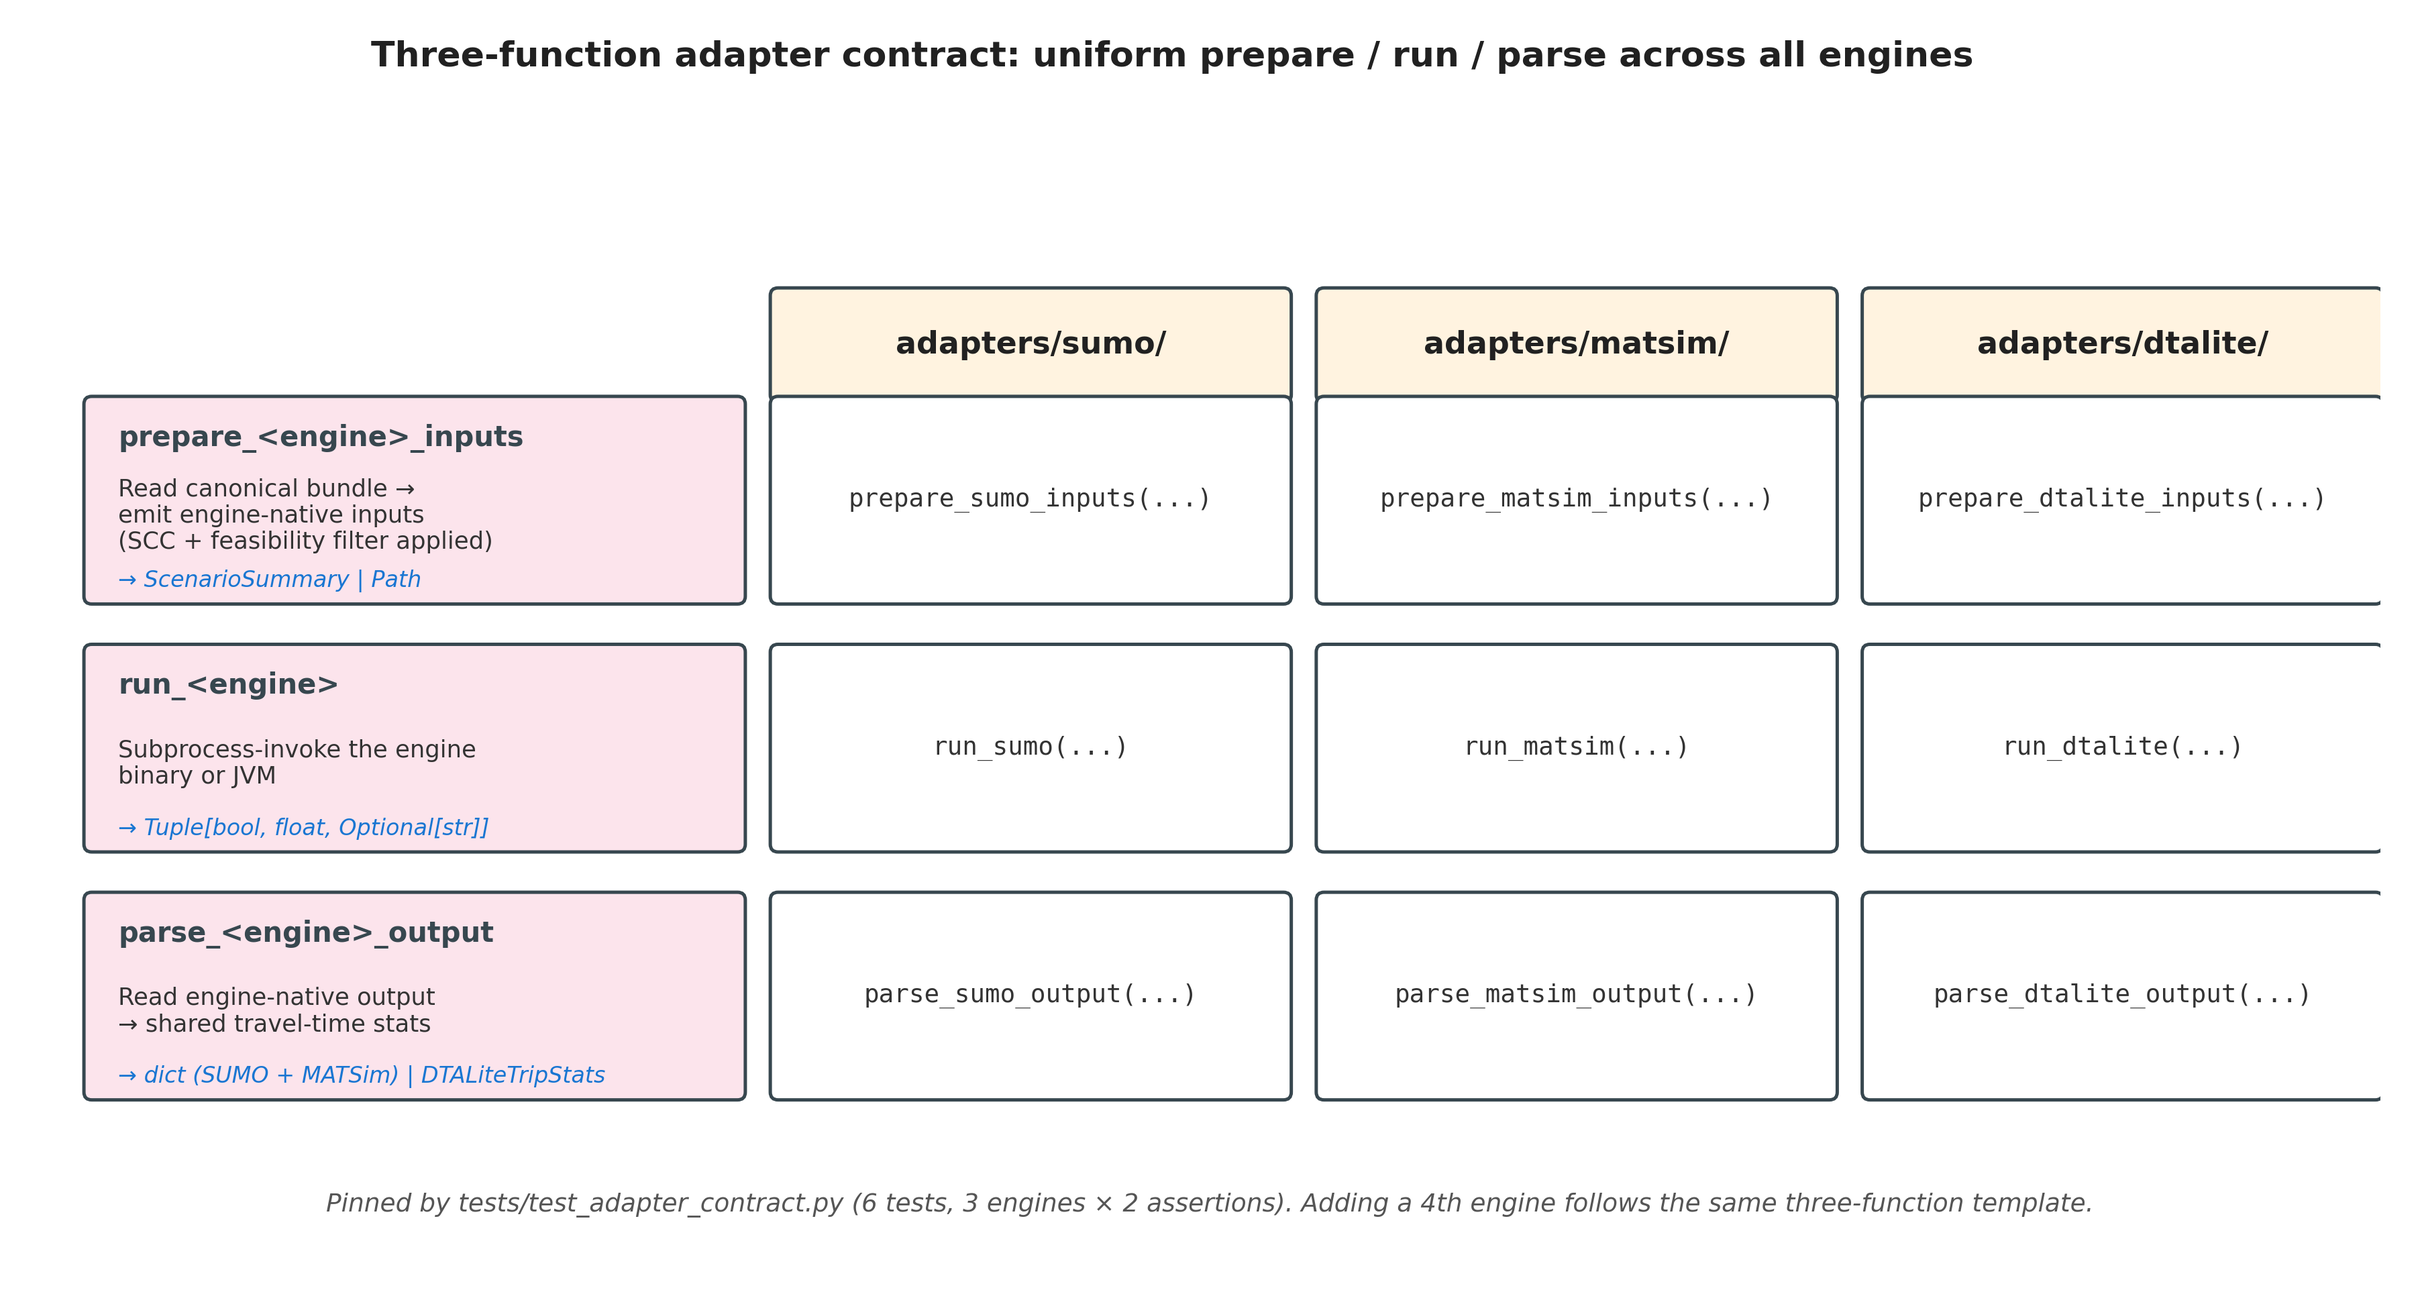
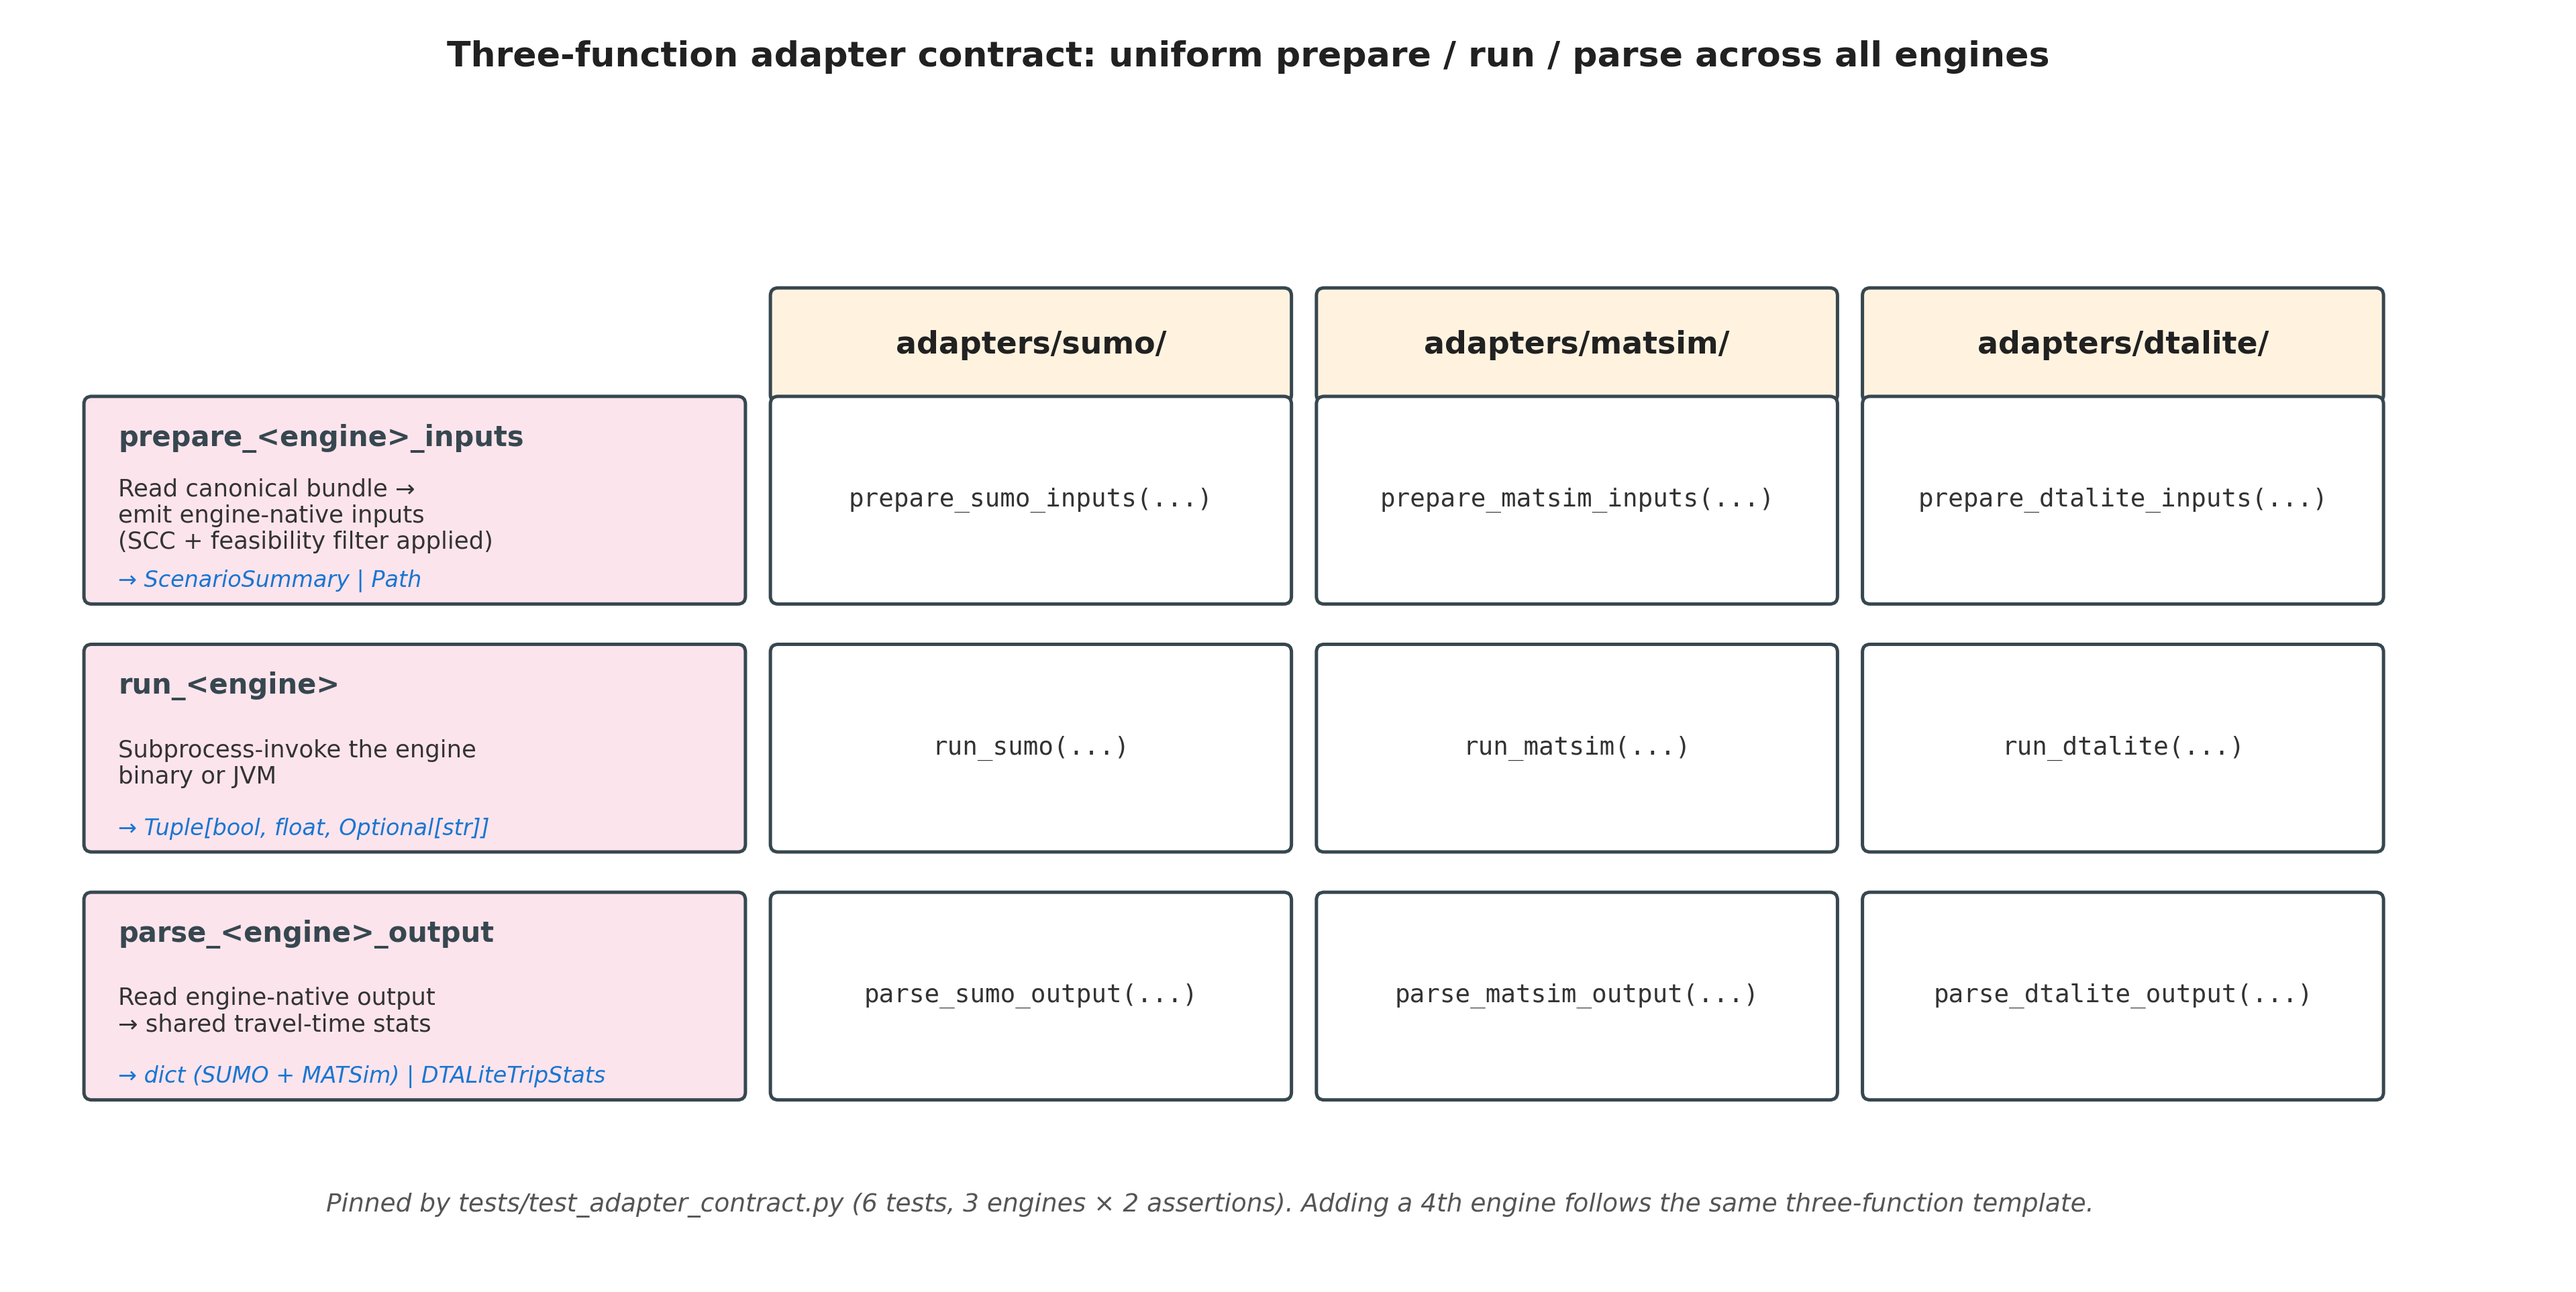
Add F11 parallel-BFS worker pool figure + fix F5 DTALite column clipping
Two changes from the figure-set audit:

1. F11 NEW (fig_3_8b_parallel_bfs_workers.png) — visualizes the
   Phase 14 parallelism that previously was only mentioned textually
   in F7's "parallel BFS, 16 workers" annotation. Shows:
   - feasible_trip_ids input (200K trips, sorted by trip_id)
   - Chunker + multiprocessing.get_context("spawn").Pool(...).imap
   - Worker pool: 4 visible worker boxes + ellipsis box for workers
     5-16 (matches SLURM_CPUS_PER_TASK=16 on Cardinal). Each worker
     shows _init_worker loading the SCC network as a replicated copy
     (~150 MB per worker).
   - Per-worker BFS strip: shortest_path_with_restrictions(...)
     iterating over trip chunk
   - Pool.imap merge to Dict[trip_id, List[node_id]] (sorted output
     written to cache/canonical_routes/<sha>.jsonl.zst)
   - Footer notes on pure-function determinism (pinned by
     tests/test_canonical_routes.py::TestParallelDeterminism) +
     Phase 14.13 content-addressable cache.

   Numbered fig_3_8b to slot between fig_3_8 (BEFORE/AFTER speedup)
   and fig_3_9 (visualization component) without renumbering existing
   figures. Chapter 3 §3.8.

2. F5 (fig_3_4_adapter_contract.png) — DTALite column was clipped at
   the right edge of the PNG (figsize=15 with xlim 0-15, but rounded
   FancyBboxPatch corners + padding extended ~0.04 beyond). Bumped
   figsize to 16 + xlim to 0-16. DTALite header + 3 cells now fully
   visible with proper margin.
[…]

diff --git a/tools/generate_architecture_figures.py b/tools/generate_architecture_figures.py
@@ -719,10 +719,12 @@ def fig_3_3_generation_pipeline(output_dir):
 
 
 def fig_3_4_adapter_contract(output_dir):
-    fig, ax = plt.subplots(figsize=(15, 7))
+    fig, ax = plt.subplots(figsize=(16, 7))
     fig.suptitle("Three-function adapter contract: uniform prepare / run / parse across all engines",
                  fontsize=12.5, fontweight="bold", y=0.97)
-    ax.set_xlim(0, 15)
+    # xlim slightly wider than figsize-scaled to give the rightmost column
+    # full rounded-corner + padding room (previously clipped DTALite column)
+    ax.set_xlim(0, 16)
     ax.set_ylim(0, 7)
     ax.axis("off")
 
@@ -937,6 +939,138 @@ def fig_6_2_reproducibility_regimes(output_dir):
 
 
 # -----------------------------------------------------------------------------
+# F11 — canonical_routes parallel-BFS worker architecture (Methods §3.8)
+# -----------------------------------------------------------------------------
+
+
+def fig_3_8b_parallel_bfs_workers(output_dir):
+    fig, ax = plt.subplots(figsize=(15, 10))
+    fig.suptitle("Phase 14 canonical_routes parallel-BFS architecture: "
+                 "task-parallel over trips, replicated SCC-graph per worker",
+                 fontsize=12, fontweight="bold", y=0.975)
+    ax.set_xlim(0, 15)
+    ax.set_ylim(0, 11)
+    ax.axis("off")
+
+    # ── Top input: feasible trip list ──────────────────────────────────────
+    box(ax, 2.0, 9.7, 11.0, 0.95, "",
+        color=C_BUNDLE, edgecolor=C_BORDER)
+    ax.text(7.5, 10.30,
+            "feasible_trip_ids   (e.g. 200,000 trips, sorted by trip_id)",
+            ha="center", va="center", fontsize=11, fontweight="bold",
+            color=C_TEXT)
+    ax.text(7.5, 9.92,
+            "from  adapters/common/feasibility.feasible_trip_ids()   "
+            "(pure function of network + demand + supported_modes)",
+            ha="center", va="center", fontsize=8.5, style="italic", color="#555")
+
+    arrow(ax, 7.5, 9.65, 7.5, 9.05, lw=2.0)
+
+    # ── Chunker + dispatcher (consolidated; contains both the worker-pool ──
+    #    header AND the chunking command so dispatcher arrows don't cross
+    #    any labels on the way down to workers)
+    box(ax, 2.0, 7.3, 11.0, 1.7, "",
+        color=C_HIGHLIGHT, edgecolor="#c62828")
+    ax.text(7.5, 8.65,
+            "Chunk into  ~1,000  lists of  ~200 trips  each",
+            ha="center", va="center", fontsize=10.5, fontweight="bold",
+            color="#c62828")
+    ax.text(7.5, 8.25,
+            "multiprocessing.get_context(\"spawn\").Pool(workers=N).imap(...)",
+            ha="center", va="center", fontsize=9, family="monospace",
+            color="#c62828")
+    ax.text(7.5, 7.80,
+            "Worker pool:  spawn context;  N = SLURM_CPUS_PER_TASK = 16 on Cardinal",
+            ha="center", va="center", fontsize=9.5, fontweight="bold",
+            color="#37474f")
+    ax.text(7.5, 7.50,
+            "(showing 4 workers + ellipsis for clarity; each holds a full replicated SCC-filtered network, ~150 MB / worker)",
+            ha="center", va="center", fontsize=8.5, style="italic", color="#555")
+
+    # ── Worker boxes: 4 visible + ellipsis column for the remaining 12 ────
+    n_visible = 4
+    worker_w = 2.3
+    worker_h = 1.4
+    worker_gap = 0.20
+    ellipsis_w = 1.4
+    total_w = n_visible * worker_w + (n_visible - 1) * worker_gap + ellipsis_w + worker_gap
+    pool_x_start = (15 - total_w) / 2
+    pool_y_top = 6.40
+    pool_y_bottom = pool_y_top - worker_h
+
+    worker_centers = []
+    for i in range(n_visible):
+        wx = pool_x_start + i * (worker_w + worker_gap)
+        box(ax, wx, pool_y_bottom, worker_w, worker_h, "",
+            color=C_ADAPTER, edgecolor=C_BORDER)
+        ax.text(wx + worker_w / 2, pool_y_bottom + worker_h - 0.30,
+                f"Worker {i+1}",
+                ha="center", va="center", fontsize=10, fontweight="bold",
+                color=C_TEXT)
+        ax.text(wx + worker_w / 2, pool_y_bottom + 0.45,
+                "_init_worker:\nload SCC network\n(replicated copy)",
+                ha="center", va="center", fontsize=8, color="#555")
+        worker_centers.append(wx + worker_w / 2)
+
+    # Ellipsis box (representing workers 5-16)
+    ex = pool_x_start + n_visible * (worker_w + worker_gap)
+    box(ax, ex, pool_y_bottom, ellipsis_w, worker_h, "",
+        color="white", edgecolor="#999")
+    ax.text(ex + ellipsis_w / 2, pool_y_bottom + worker_h - 0.30,
+            "…",
+            ha="center", va="center", fontsize=18, fontweight="bold",
+            color="#999")
+    ax.text(ex + ellipsis_w / 2, pool_y_bottom + 0.50,
+            "Workers\n5-16\n(same shape)",
+            ha="center", va="center", fontsize=8, color="#999")
+
+    # Dispatcher arrows (chunker → each worker); start just below the
+    # chunker box bottom edge (y=7.3) and land at worker top
+    for cx in worker_centers + [ex + ellipsis_w / 2]:
+        arrow(ax, 7.5, 7.25, cx, pool_y_top + 0.05, lw=0.8, color="#999")
+
+    # ── Per-worker BFS computation strip ──────────────────────────────────
+    bfs_y_top = 4.30
+    bfs_y_bottom = 3.40
+    box(ax, 0.5, bfs_y_bottom, 14.0, bfs_y_top - bfs_y_bottom, "",
+        color="white", edgecolor="#888")
+    ax.text(7.5, 3.95,
+            "Each worker, per chunk:   for (trip_id, origin_node, dest_node) in chunk:",
+            ha="center", va="center", fontsize=9.5, family="monospace", color="#333")
+    ax.text(7.5, 3.60,
+            "        path = shortest_path_with_restrictions(...);   yield (trip_id, path)",
+            ha="center", va="center", fontsize=9.5, family="monospace", color="#333")
+    # Worker → BFS strip arrows
+    for cx in worker_centers + [ex + ellipsis_w / 2]:
+        arrow(ax, cx, pool_y_bottom, cx, bfs_y_top + 0.05, lw=0.6, color="#bbb")
+
+    # ── Result merge ──────────────────────────────────────────────────────
+    arrow(ax, 7.5, bfs_y_bottom, 7.5, 2.30, lw=1.8)
+    box(ax, 3.0, 1.30, 9.0, 1.00, "",
+        color=C_OK, edgecolor="#1b5e20")
+    ax.text(7.5, 1.95,
+            "Pool.imap merges results in submission order",
+            ha="center", va="center", fontsize=10, fontweight="bold",
+            color="#1b5e20")
+    ax.text(7.5, 1.55,
+            "→ Dict[trip_id, List[node_id]]   "
+            "(written to cache/canonical_routes/<sha>.jsonl.zst, sorted)",
+            ha="center", va="center", fontsize=9, color="#1b5e20",
+            family="monospace")
+
+    # ── Footer notes ──────────────────────────────────────────────────────
+    ax.text(7.5, 0.65,
+            "Pure-function determinism → byte-identical to serial computation regardless of worker count "
+            "(pinned by tests/test_canonical_routes.py::TestParallelDeterminism)",
+            ha="center", va="center", fontsize=9, style="italic", color="#555")
+    ax.text(7.5, 0.25,
+            "Content-addressable cache: cache/canonical_routes/canonical_routes_<sha256>.jsonl.zst → warm re-runs hit instantly (Phase 14.13)",
+            ha="center", va="center", fontsize=9, style="italic", color="#1b5e20")
+
+    return save(fig, "fig_3_8b_parallel_bfs_workers", output_dir)
+
+
+# -----------------------------------------------------------------------------
 # Main
 # -----------------------------------------------------------------------------
 
@@ -955,6 +1089,7 @@ def main():
         ("F8 Wave 2 container chain", fig_3_11_container_chain),
         ("F9 Two paradigm spread phenomena", fig_6_1_paradigm_spread),
         ("F10 Four reproducibility regimes", fig_6_2_reproducibility_regimes),
+        ("F11 Parallel-BFS worker pool", fig_3_8b_parallel_bfs_workers),
     ]
     for label, fn in fns:
         out = fn(output_dir)
